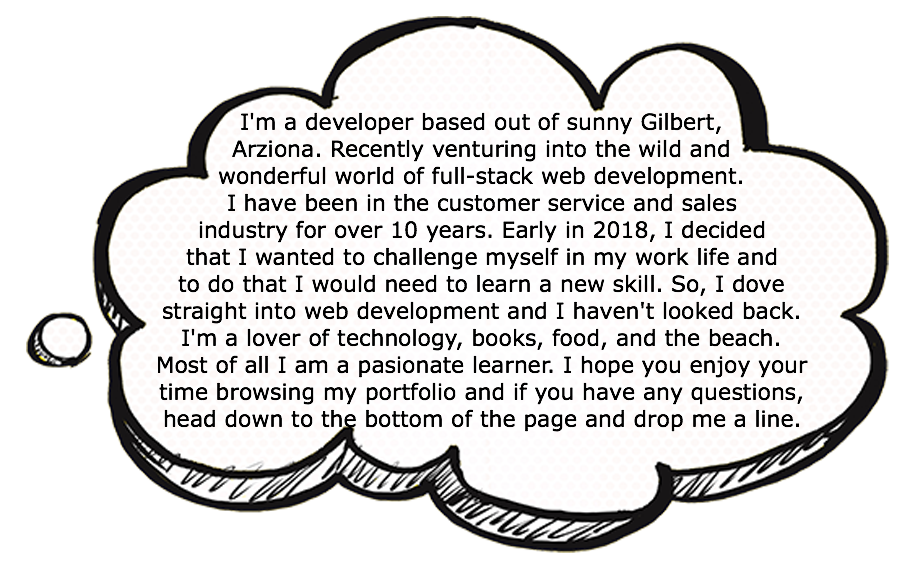
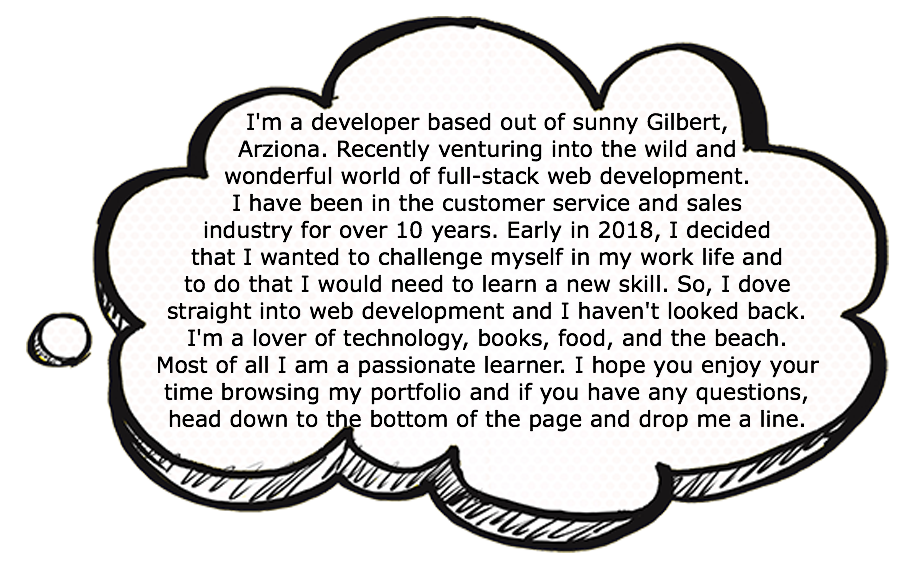
Add files via upload

Changed region(s): [[0.1532, 0.1862, 0.8884, 0.7448]]

diff --git a/index.html b/index.html
@@ -45,75 +45,75 @@
       <div class="collapse navbar-collapse" id="bs-example-navbar-collapse-1">
 
         <!-- <form class="navbar-form navbar-left">
-          <div class="form-group">
-            <input type="text" class="form-control" placeholder="Search">
-          </div>
-          <button type="submit" class="btn btn-default"><span class="glyphicon glyphicon-search" aria-hidden="true"></span></button> -->
-        </form>
-        <ul class="nav navbar-nav navbar-right">
-          <li><a href="#about">About Me</a></li>
-          <li><a href="#skills">Skills</a></li>
-          <li><a href="#facts">Facts</a></li>
-          <li><a href="#projects">Projects</a></li>
-          <li><a href="#contact">Contact</a></li>
-          <li class="dropdown">
-            <a href="#" class="dropdown-toggle" data-toggle="dropdown" role="button" aria-haspopup="true" aria-expanded="false">Resume <span class="caret"></span></a>
-            <ul class="dropdown-menu">
-              <li><a href="LindseyRuggResume.pdf" class="btn download btn btn-default navbar-btn">Download</a></li>
-            </ul>
-          </li>
+        <div class="form-group">
+        <input type="text" class="form-control" placeholder="Search">
+      </div>
+      <button type="submit" class="btn btn-default"><span class="glyphicon glyphicon-search" aria-hidden="true"></span></button> -->
+    </form>
+    <ul class="nav navbar-nav navbar-right">
+      <li><a href="#about">About Me</a></li>
+      <li><a href="#skills">Skills</a></li>
+      <li><a href="#facts">Facts</a></li>
+      <li><a href="#projects">Projects</a></li>
+      <li><a href="#contact">Contact</a></li>
+      <li class="dropdown">
+        <a href="#" class="dropdown-toggle" data-toggle="dropdown" role="button" aria-haspopup="true" aria-expanded="false">Resume <span class="caret"></span></a>
+        <ul class="dropdown-menu">
+          <li><a href="LindseyRuggResume.pdf" class="btn download btn btn-default navbar-btn">Download</a></li>
         </ul>
-      </div><!-- /.navbar-collapse -->
-    </div><!-- /.container-fluid -->
-  </nav>
+      </li>
+    </ul>
+  </div><!-- /.navbar-collapse -->
+</div><!-- /.container-fluid -->
+</nav>
 
-  <section id="intro">
+<section id="intro">
 
 
   <div id="intro" class="intro_wrap">
     <div id="topcontent">
       <div class="container">
-      <div id="hello" class="row">
+        <div id="hello" class="row">
           <h1 style="font-size:8vw">Hello<span class="color"><a href="#Add something fun here#">.</a></span>
-          <br>
-          I am<br>
-          Lindsey
+            <br>
+            I am<br>
+            Lindsey
           </h1>
           <br>
           <br>
           <br>
-      </div>
-    </div>
-    <div class="container">
-      <div id="profile_pic" class="col-md-3">
-        <img class="img-responsive img-circle profile" src="assets/images/linkedinphoto.jpg" alt="Lindsey Rugg" style="width:90%">
-      </div>
-      <div id="about" class="col-md-9">
-        <div class="container">
-          <div class="cloud_pic">
-            <img src="assets/images/cloud.png" alt="cloud" style="width:75%">
-          </div>
-        <div class="centered">
-        <div>I'm a developer based out of sunny Gilbert, Arziona.   Recently venturing into the <span class="wild">wild</span> and <span class="wonderful">wonderful</span> world of <strong>     full-stack web development</strong>. I have been in the customer service and sales industry for over 10 years. Early in 2018, I decided that I wanted to challenge myself in my work life and to do that I would need to learn a new skill. So, I dove straight into web development and I haven't looked back. I'm a lover of technology, books, food, and the beach. Most of all I am a pasionate learner. I hope you enjoy your time browsing my portfolio and if you have any questions, head down to the bottom of the page and drop me a line.
         </div>
       </div>
+      <div class="container">
+        <div id="profile_pic" class="col-md-3">
+          <img class="img-responsive img-circle profile" src="assets/images/portfolio_pic1.png" alt="Lindsey Rugg" style="width:100%">
+        </div>
+        <div id="about" class="col-md-9">
+          <div class="container">
+            <div class="cloud_pic">
+              <img src="assets/images/cloud.png" alt="cloud" style="width:70%">
+            </div>
+            <div class="centered">
+              <div>I'm a developer based out of sunny Gilbert, Arziona.   Recently venturing into the <span class="wild">wild</span> and <span class="wonderful">wonderful</span> world of <strong>     full-stack web development</strong>. I have been in the customer service and sales industry for over 10 years. Early in 2018, I decided that I wanted to challenge myself in my work life and to do that I would need to learn a new skill. So, I dove straight into web development and I haven't looked back. I'm a lover of technology, books, food, and the beach. Most of all I am a <strong>passionate learner</strong>. I hope you enjoy your time browsing my portfolio and if you have any questions, head down to the bottom of the page and drop me a line.
+              </div>
+            </div>
+          </div>
+        </div>
       </div>
     </div>
-    </div>
   </div>
-</div>
   <br>
   <br>
 
-    <!-- skills section -->
-    <div id="midcontent">
-      <div id="skills" class="page-header">
-        <div class="container">
-          <div class="panel-heading">
-            <div class="col-md-12 col-sm-12">
-              <h3>Mad Skills: <small></small></h3>
-            </div>
+  <!-- skills section -->
+  <div id="midcontent">
+    <div id="skills" class="page-header">
+      <div class="container">
+        <div class="panel-heading">
+          <div class="col-md-12 col-sm-12">
+            <h3>Mad Skills: <small></small></h3>
           </div>
+        </div>
         <div class="col-md-12 col-sm-12">
           <ul class="list-inline">
             <li>Ruby | <img src ="assets/images/Ruby.png" style="height: 35px; width: 35px;"></li>
@@ -124,22 +124,22 @@
             <li>Bootstrap | <img src ="assets/images/Bootstrap.png" style="height: 40px; width: 40px;"></li>
           </ul>
         </div>
-    </div>
-    <div class="row">
-      <div class="col-md-2"></div>
-      <div class="col-md-8 col-sm-12">
-        <p>Lorem ipsum dolor sit amet, in netus sollicitudin luctus non. Mi ipsum pellentesque dignissim a lacus, semper risus, tempus vitae sapien justo. Est mattis lacus blandit id dolor. Odio pretium in iaculis, wisi ac proin vel feugiat pretium, amet enim varius dapibus. Tincidunt id. Vel sem condimentum eleifend, volutpat a gravida pede voluptas, lacus hendrerit pretium, vitae praesent semper sit. Mauris vehicula turpis tempus.
-        </p>
       </div>
-      <div class="col-md-2"></div>
-    </div>
+      <div id="skill_paragraph" class="row">
+        <div class="col-md-2"></div>
+        <div class="col-md-8 col-sm-12">
+          <p>Ruby, Rails, and Javascript are just a few of my favorite things. I strive to create beautiful, intuitive, and responsive webpages that are user friendly and fast. The page you are viewing was built by me from scratch using primarily Bootstrap and CSS and isn't based on any sort of template. Go ahead and check out some of my other projects below. I would love to help you make something special.
+          </p>
+        </div>
+        <div class="col-md-2"></div>
+      </div>
     </div>
     <section class="light nopad-b">
       <div class="conatiner">
         <div class="row alt">
           <div class="col-md-12">
             <div id="verticaltext" class="panel-heading">
-              <span>Random facts</span>
+              <h3>Random facts</h3>
             </div>
             <div class="row alt">
               <div id="facts" class="col-md-5 col-sm-12 text-middle">
@@ -154,9 +154,9 @@
                   <li>I like to help things grow</li>
                 </ul>
               </div>
-            <div id="img-1" class="col-md-7 col-sm-12">
-              <img class="major" src="assets/images/cartoon.png" alt="Coding Cartoon">
-            </div>
+              <div id="img-1" class="col-md-7 col-sm-12">
+                <img class="img-responsive" src="assets/images/cartoon.png" alt="Coding Cartoon">
+              </div>
             </div>
           </div>
         </div>
@@ -167,19 +167,19 @@
 
 <div id="bottomcontent">
   <div class="container">
-  <div id="projects" class="page-header">
-    <h3>Projects: <small></small></h3>
-  </div>
+    <div id="projects" class="page-header">
+      <h3>Projects: <small></small></h3>
+    </div>
 
     <div class="row">
 
       <div class="col-md-4 col-sm-6">
         <div class="pic">
-            <img src="#" alt="example pic" class="thumbnail">
+          <img src="#" alt="example pic" class="thumbnail">
           <div class="middle">
             <div class="text"><a href="#" target="_blank">View Github</a></div>
           </div>
-      </div>
+        </div>
         <div class="caption">
           <h3>Example</h3>
           <p>Lorem ipsum dolor sit amet, consectetur adipiscing elit. Integer nec odio. Sed nisi. Nulla quis sem at nibh elementum imperdiet. Duis sagittis ipsum. Praesent mauris.</p>
@@ -188,7 +188,7 @@
 
       <div class="col-md-4 col-sm-6">
         <div class="pic">
-            <img src="#" alt="example pic" class="thumbnail">
+          <img src="#" alt="example pic" class="thumbnail">
           <div class="middle_1">
             <div class="text"><a href="#" target="_blank">View Github</a></div>
           </div>
@@ -202,10 +202,10 @@
 
       <div class="col-md-4 col-sm-6">
         <div class="pic">
-            <img src="#" alt="example pic" class="thumbnail">
-            <div class="middle">
-              <div class="text"><a href="#" target="_blank">View Github</a></div>
-            </div>
+          <img src="#" alt="example pic" class="thumbnail">
+          <div class="middle">
+            <div class="text"><a href="#" target="_blank">View Github</a></div>
+          </div>
         </div>
         <div class="caption">
           <h3>Example App</h3>
@@ -235,31 +235,31 @@
           <img src="#" alt="example pic" class="thumbnail">
           <div class="middle_2">
             <div class="text"><a href="#" target="_blank">View Github</a>
+            </div>
+          </div>
+          <div class="caption">
+            <h3>Example App</h3>
+            <p>Lorem ipsum dolor sit amet, consectetur adipiscing elit. Integer nec odio. Praesent libero.</p>
           </div>
         </div>
-        <div class="caption">
-          <h3>Example App</h3>
-          <p>Lorem ipsum dolor sit amet, consectetur adipiscing elit. Integer nec odio. Praesent libero.</p>
-        </div>
       </div>
-    </div>
 
       <div class="col-md-4 col-sm-6">
         <div class="pic">
           <img src="#" alt="example pic" class="thumbnail">
           <div class="middle_2">
             <div class="text"><a href="#" target="_blank">View Github</a>
+            </div>
+          </div>
+          <div class="caption">
+            <h3>Example App</h3>
+            <p>Lorem ipsum dolor sit amet, consectetur adipiscing elit. Integer nec odio. Praesent libero. Sed cursus ante dapibus diam. Sed nisi. Nulla quis sem at nibh elementum imperdiet. Duis sagittis ipsum. Praesent mauris.</p>
           </div>
         </div>
-        <div class="caption">
-          <h3>Example App</h3>
-          <p>Lorem ipsum dolor sit amet, consectetur adipiscing elit. Integer nec odio. Praesent libero. Sed cursus ante dapibus diam. Sed nisi. Nulla quis sem at nibh elementum imperdiet. Duis sagittis ipsum. Praesent mauris.</p>
-        </div>
       </div>
-    </div>
 
+    </div>
   </div>
-</div>
 </div>
 </div>
 

diff --git a/styles.css b/styles.css
@@ -31,12 +31,20 @@ a:visited {
    color: white;
 }
 
+.cloud_pic {
+  padding-right: 8em;
+}
+
 .centered {
     position: absolute;
-    top: 60%;
-    left: 40%;
-    transform: translate(-40%, -60%);
-    padding-left: 8em;
+    /* top: 60%;
+    left: 40%; */
+    top: 70px;
+    left:30px;
+    margin-top: 85px;
+    transform: translate(-30%, -70%);
+    padding-left: 30em;
+    padding-top: 30em;
 }
 
 #profile_pic {
@@ -57,22 +65,31 @@ a:visited {
   padding-bottom: 10em;
 }
 
+#skill_paragraph {
+  font-size: 16px;
+}
+
 #verticaltext{
   height: 100px;
   width: 100px;
   transform: rotate(270deg);
+
 /*play with margin */
   /* vertical-align: baseline; */
-  /* writing-mode: vertical-lr; */
+  /* writing-mode: vertical-rl;
+  text-orientation: sideways; */
 
-	/* transform-origin: left top 0; */
+	transform-origin: left center 50;
   color: white;
-        }
+}
+
+
 
 #facts {
   font-size: 18px;
   padding: 1em;
   padding-top: 2em;
+  padding-bottom: 8em;
   text-align: center;
   color: white;
 }
@@ -89,6 +106,15 @@ a:visited {
   padding-bottom: 8em;
 }
 
+#bottomcontent {
+  color: white;
+}
+
+#projects {
+  text-align: center;
+}
+
 footer {
   padding-top: 10em;
+  color: white
 }
